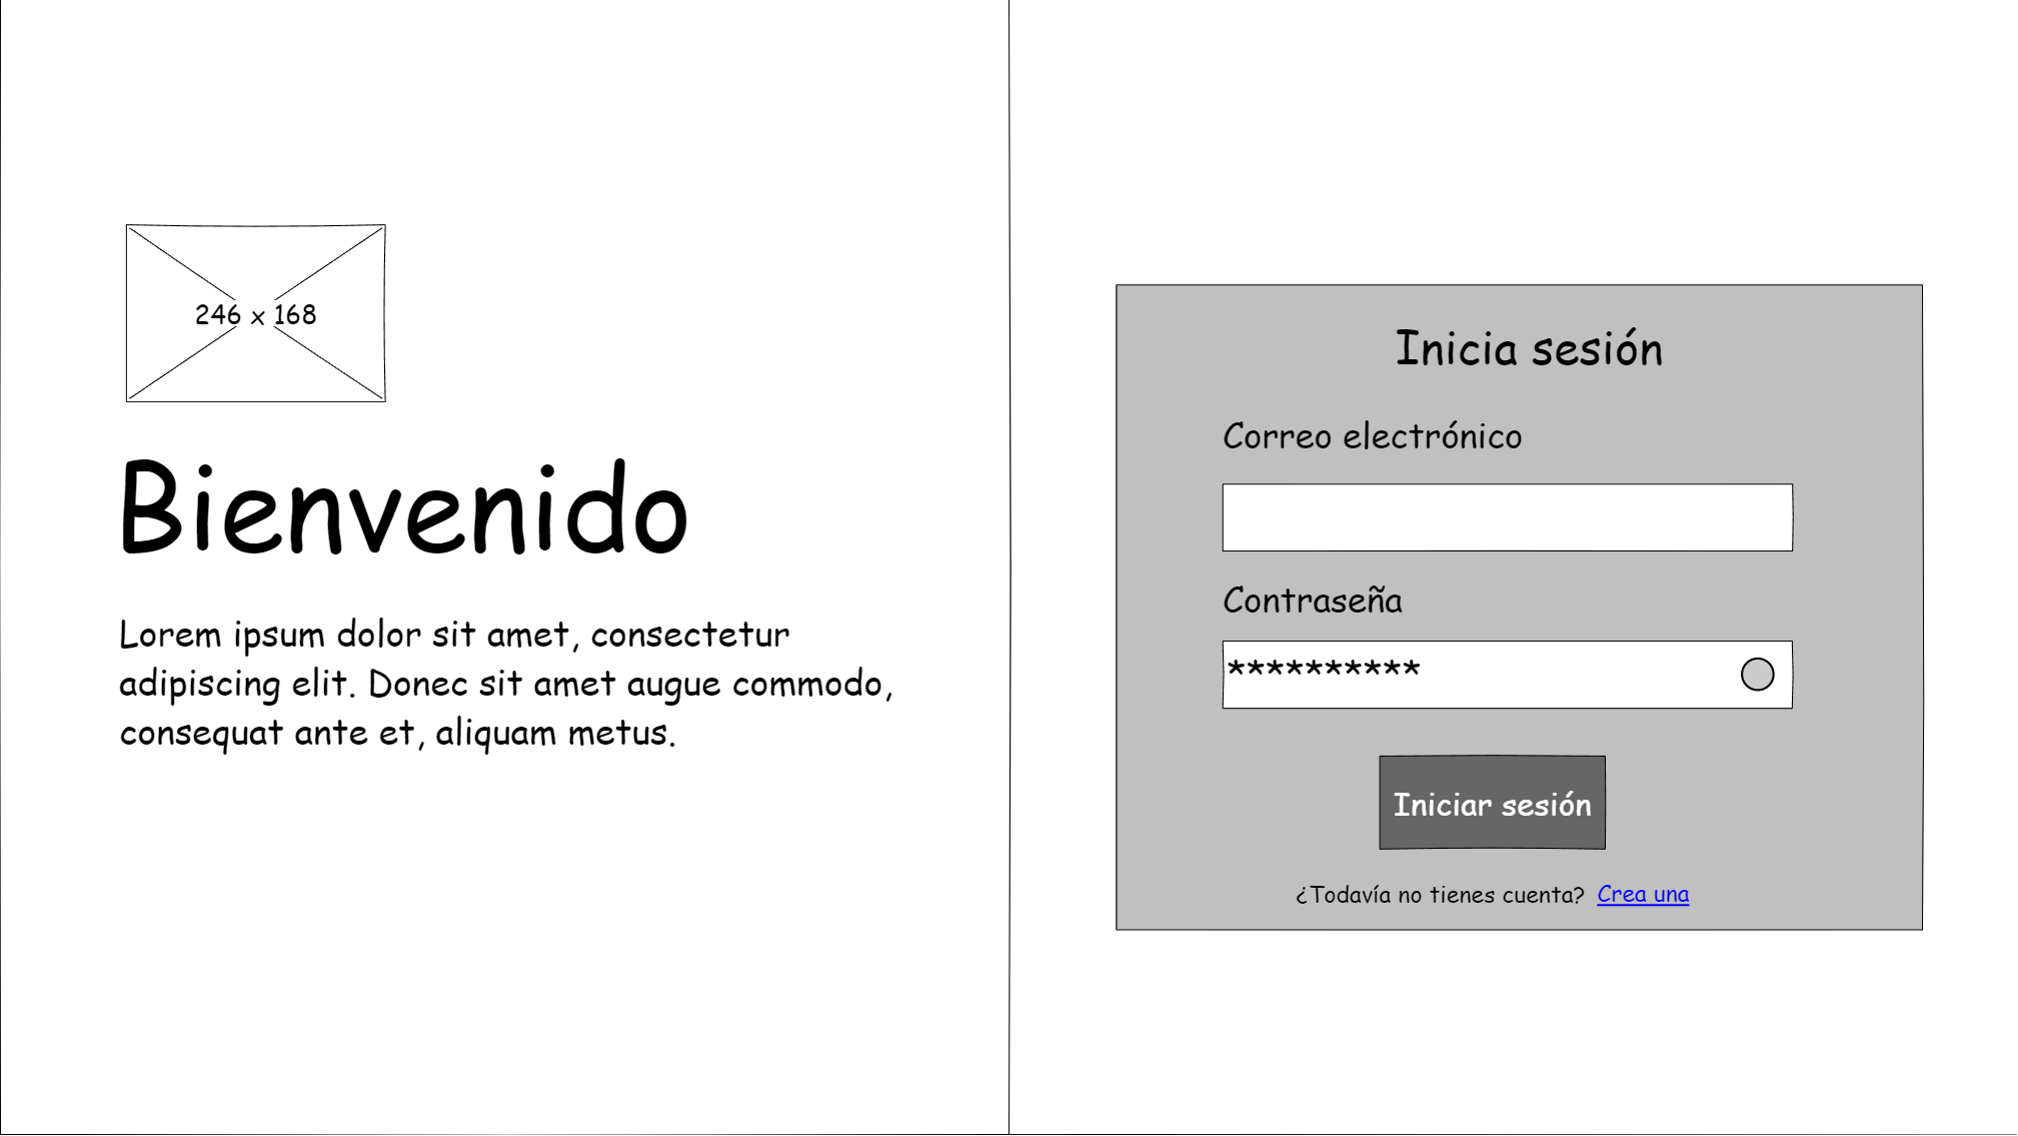
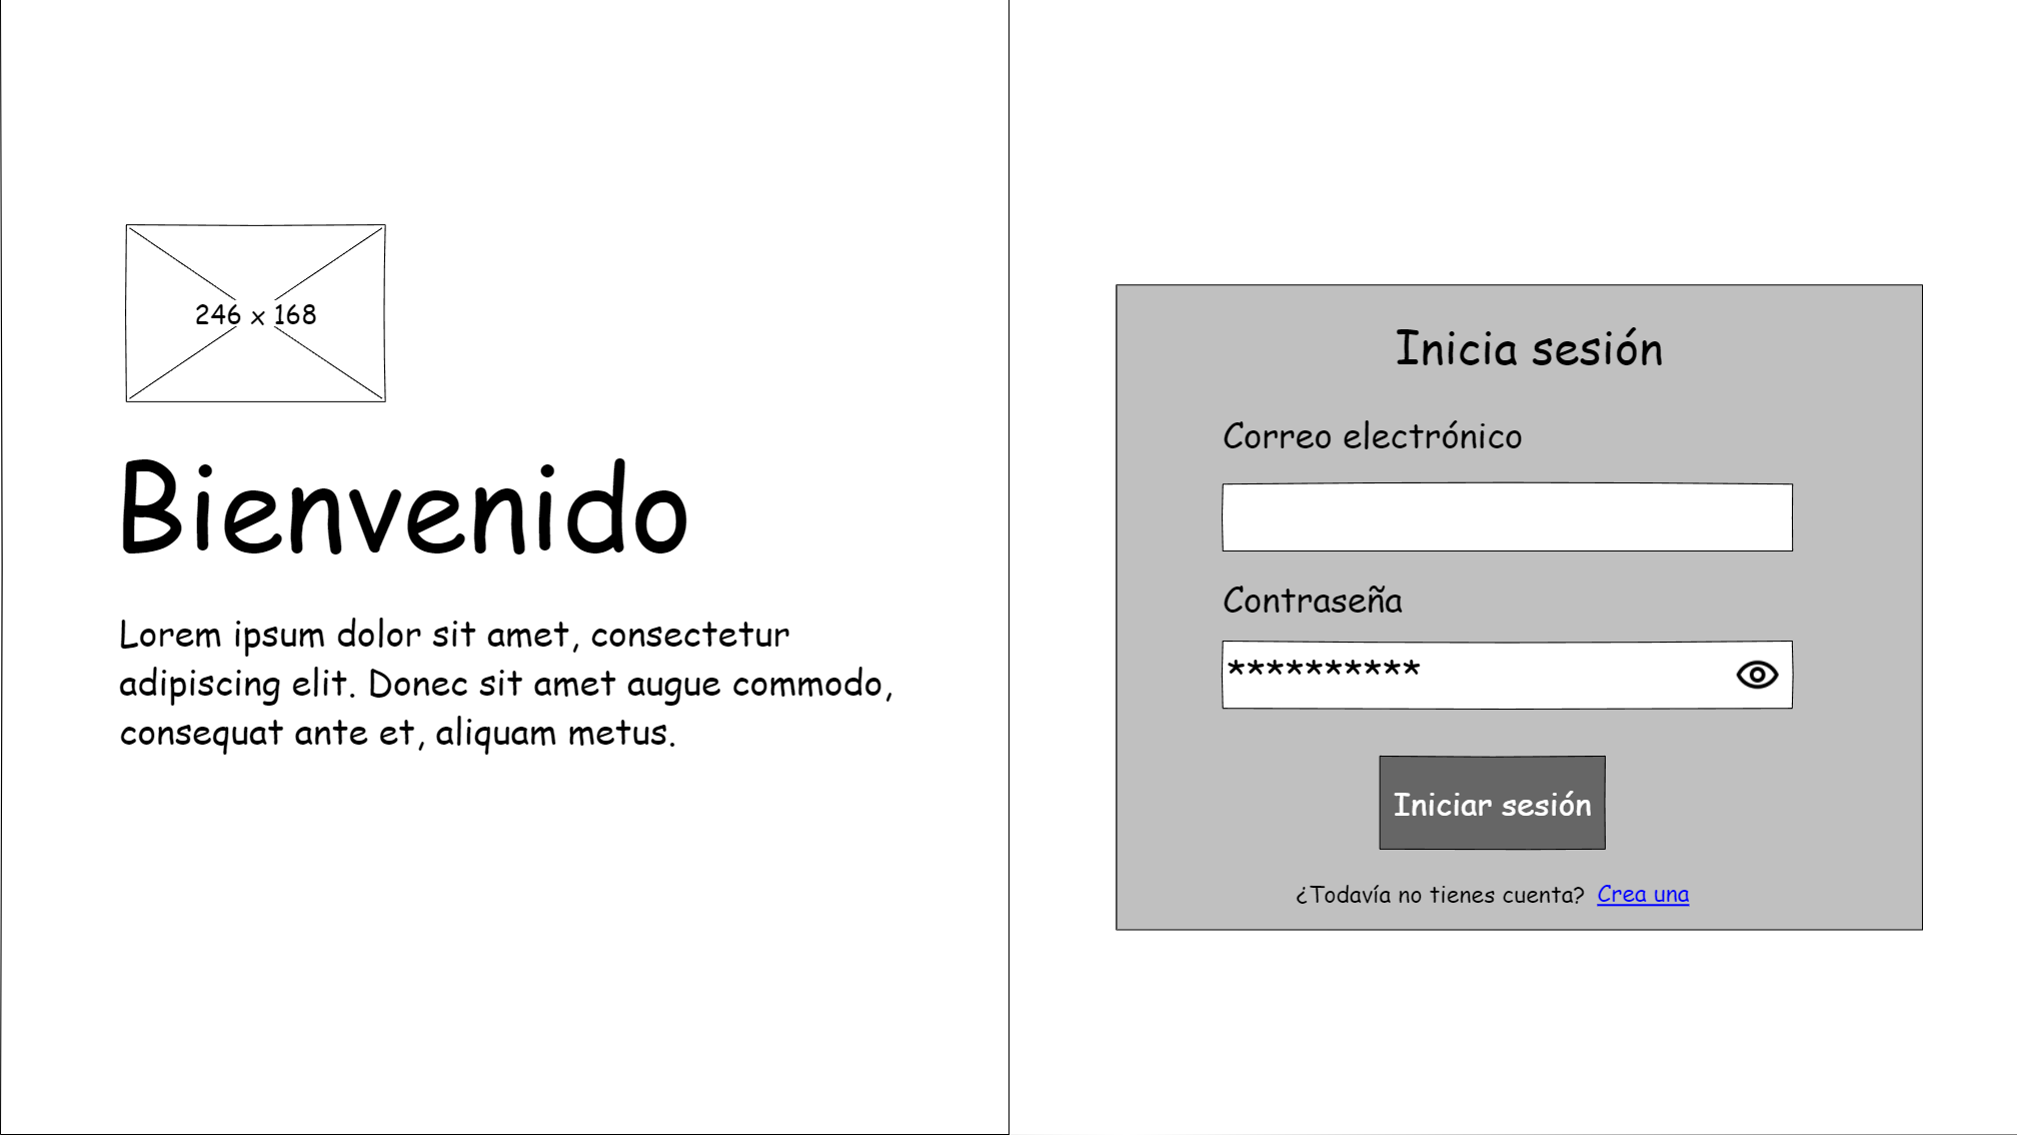
Continue haciendo los tableros de estudiante y profesor, así como la modificación del perfil y ya cree la pantalla de login

Changed region(s): [[0.6868, 0.5546, 0.8117, 0.5854], [0.8429, 0.5546, 0.9054, 0.6162]]

diff --git a/Proyecto_final/index.html b/Proyecto_final/index.html
@@ -1,0 +1,53 @@
+<!DOCTYPE html>
+<html lang="en">
+<head>
+    <meta charset="UTF-8">
+    <meta name="viewport" content="width=device-width, initial-scale=1.0">
+    <link rel="stylesheet" href="assets/css/estilo_login.css">
+    <link rel="shortcut icon" href="favicon.png" type="image/png" sizes="48x48">
+    <link href="https://cdn.jsdelivr.net/npm/bootstrap@5.3.8/dist/css/bootstrap.min.css" rel="stylesheet" integrity="sha384-sRIl4kxILFvY47J16cr9ZwB07vP4J8+LH7qKQnuqkuIAvNWLzeN8tE5YBujZqJLB" crossorigin="anonymous">
+    <title>Iniciar sesión</title>
+</head>
+<body class="d-flex align-items-center">
+    <main class="container-fluid">
+        <div class="row">
+            <div class="col bg-primario d-flex flex-column justify-content-center border-end border-dark pb-5 px-4">
+                <h1 class="color-texto text-center">Bienvenido</h1>
+                <span class="color-texto text-center fs-4 mb-2"><strong>Centro Educativo "Integra"</strong></span>
+                <span class="color-texto text-center fs-5 mb-2">Donde el aprendizaje y la tecnología se encuentran.</span>
+                <span class="color-texto text-center">Inicia sesión para comenzar tu jornada académica, revisar tus materias</span>
+                <span class="color-texto text-center">y comunicarte con tus docentes.</span>
+                <div class="text-center mt-4">
+                    <img src="assets/imgs/logo.png" alt="logo_escuela" width="150px" height="150px">
+                </div>
+            </div>
+
+            <div class="col d-flex flex-column justify-content-center px-4">
+                <div class="container bg-secundario rounded p-3">
+                    <form action="" method="">
+                        <div class="mb-3 text-center">
+                            <h2>Inicia sesión</h2>
+                        </div>
+                        <div class="mb-3">
+                            <label class="form-label"for="correo">Correo electrónico</label>
+                            <input class="form-control" type="email" name="correo" id="correo" placeholder="nombre@ejemplo.com" required>
+                        </div>
+
+                        <div class="mb-3">
+                            <label class="form-label"for="contrasena">Contraseña</label>
+                            <input class="form-control" type="password" name="contrasena" id="contrasena" required>
+                        </div>
+
+                        <div class="d-grid"><input class="btn btn-primary mb-3" type="submit" value="Iniciar sesión"></div>
+                    </form>
+                    <div class="mb-3 text-center">
+                        <dv-m><span>¿Todavía no tienes cuenta? <a href="">Crea una</a></span></dv-m>
+                    </div>
+                </div>
+            </div>
+        </div>
+
+    </main>
+    <script src="https://cdn.jsdelivr.net/npm/bootstrap@5.3.8/dist/js/bootstrap.bundle.min.js" integrity="sha384-FKyoEForCGlyvwx9Hj09JcYn3nv7wiPVlz7YYwJrWVcXK/BmnVDxM+D2scQbITxI" crossorigin="anonymous"></script>
+</body>
+</html>

diff --git a/index.html b/index.html
@@ -6,7 +6,7 @@
     <title>Home</title>
     <link rel="stylesheet" href="estilos_home.css">
     <link href="https://cdn.jsdelivr.net/npm/bootstrap@5.3.8/dist/css/bootstrap.min.css" rel="stylesheet" integrity="sha384-sRIl4kxILFvY47J16cr9ZwB07vP4J8+LH7qKQnuqkuIAvNWLzeN8tE5YBujZqJLB" crossorigin="anonymous">
-    <link rel="icon" href="favicon.png" type="image/png" sizes="48x28">
+    <link rel="icon" href="favicon.png" type="image/png" sizes="48x48">
 </head>
 <body>
     <div class="layout-grid">

diff --git a/Proyecto_final/assets/css/estilo_login.css b/Proyecto_final/assets/css/estilo_login.css
@@ -1,0 +1,22 @@
+body {
+    min-height: 100vh;
+}
+
+.row {
+    min-height: 100vh;
+}
+
+.bg-primario {
+    background-color: #6096BA;
+}
+
+.bg-secundario {
+    background-color: #E7ECEF;
+}
+.otro {
+    background-color: #A3CEF1;
+}
+
+.color-texto {
+    color: #E7ECEF;
+}
